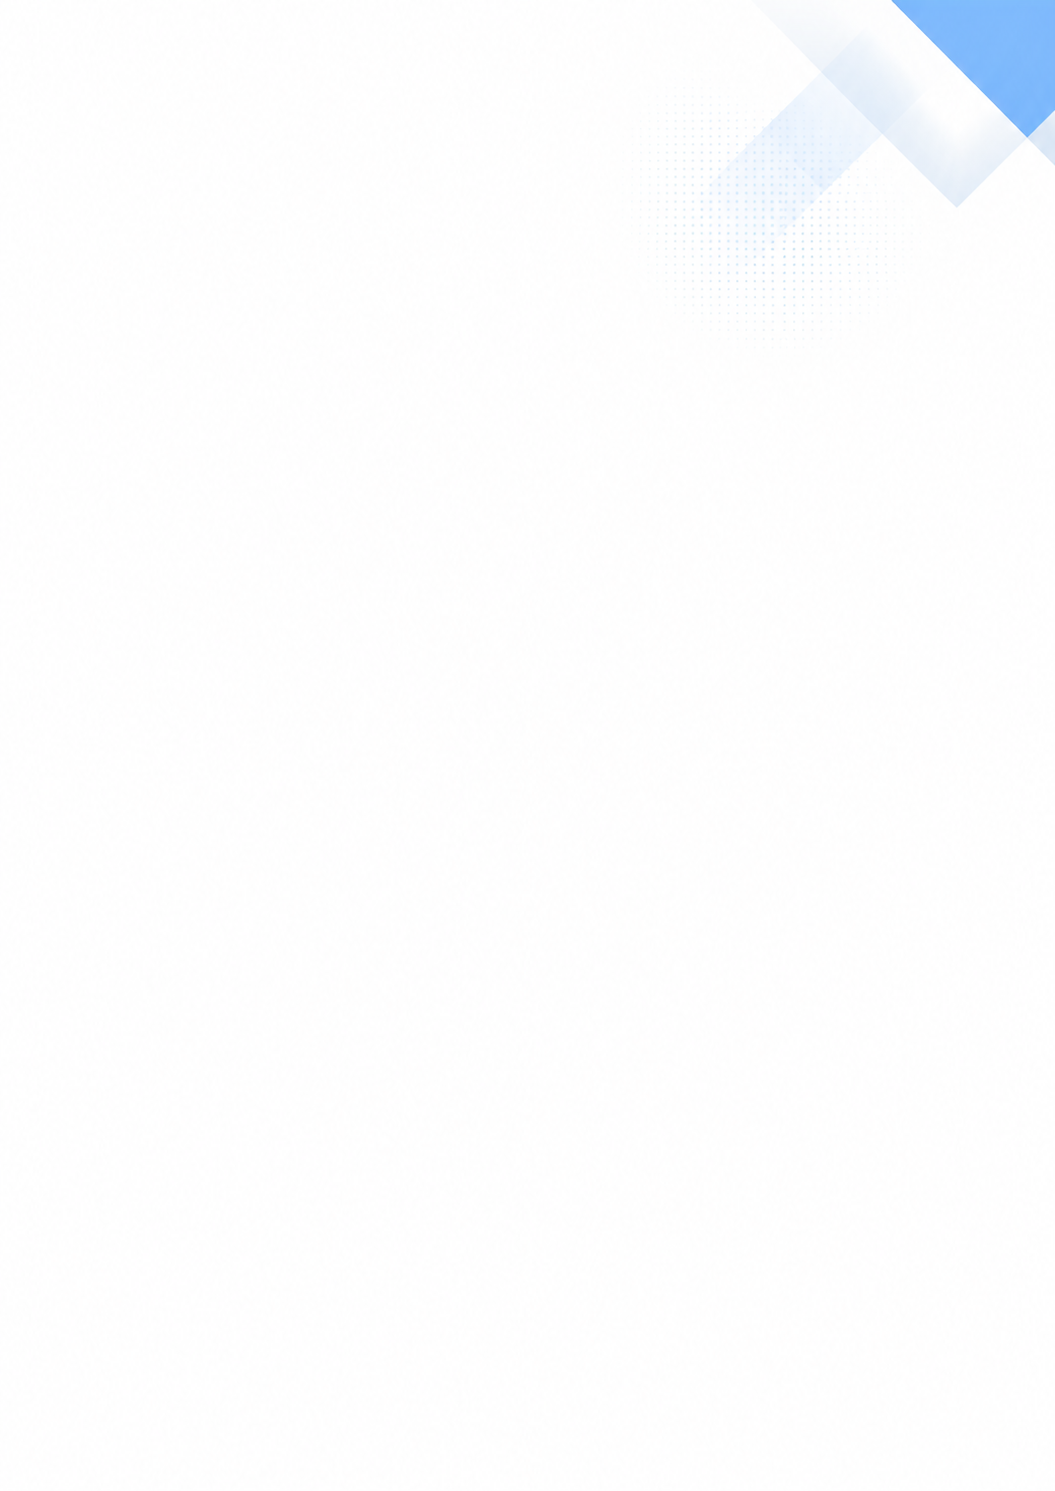
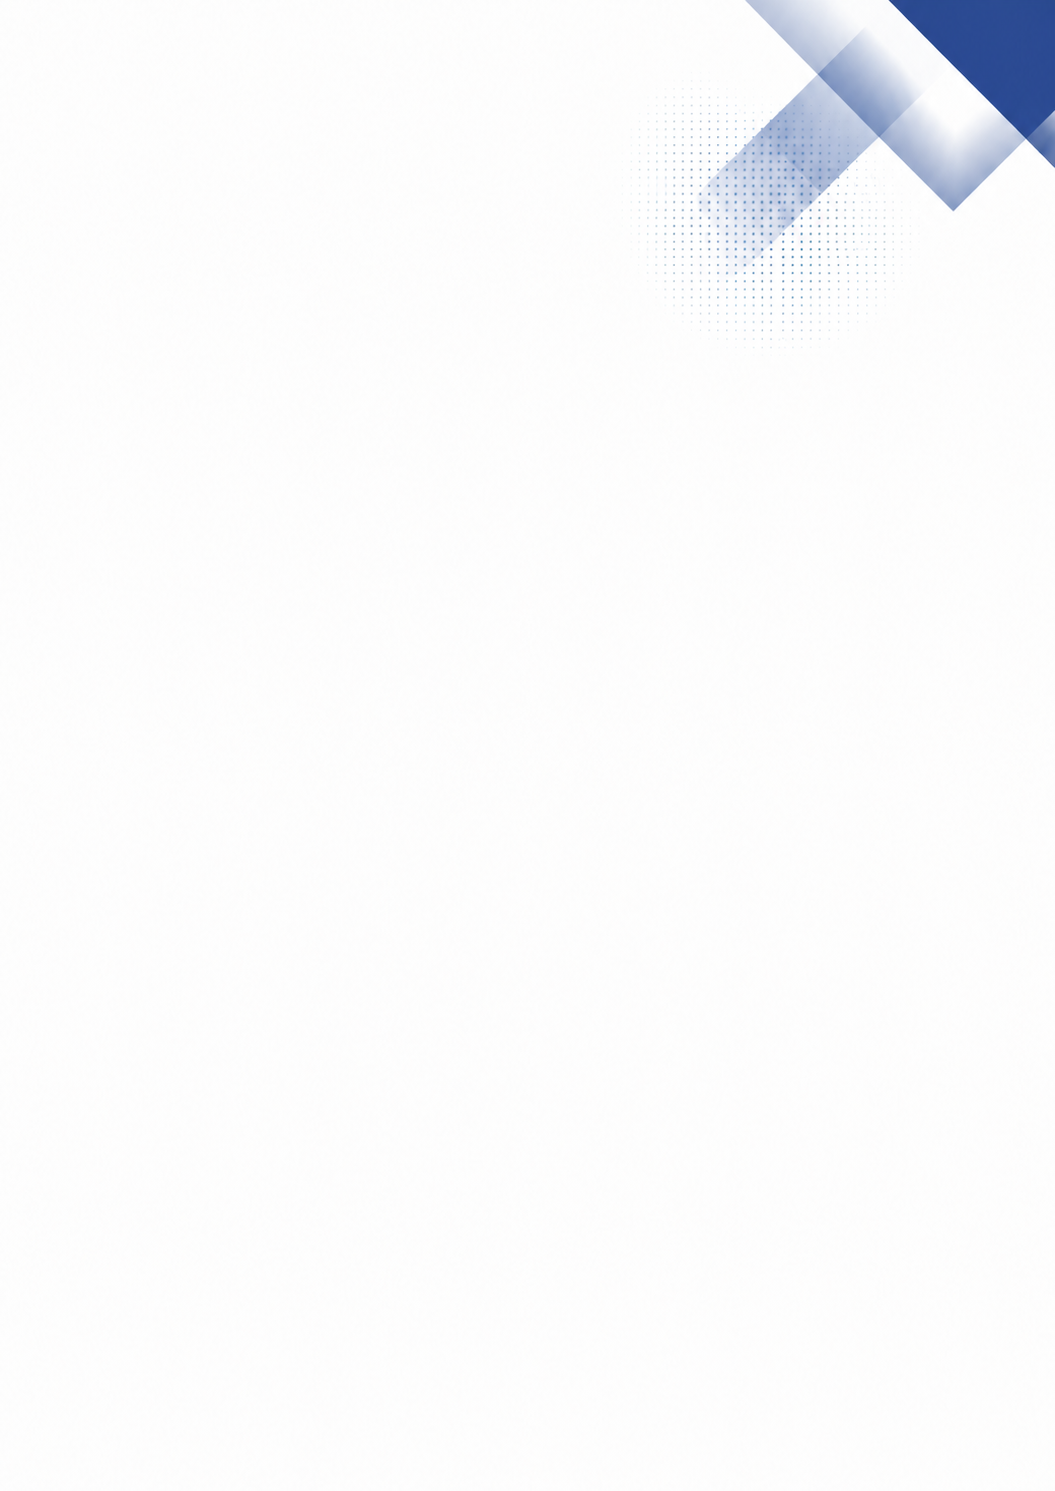
Redesign tag pills to show compact previews and implement two-line title/preview layout in dropdown

Changed region(s): [[0.637, 0.0, 1.0, 0.1851]]

diff --git a/src/app/Components/ReportNavbar.js b/src/app/Components/ReportNavbar.js
@@ -688,10 +688,10 @@ export default function ReportNavbar({ activeOrg = 'officemate' }) {
                     <div className="flex flex-wrap gap-1.5 mt-1.5">
                       <span className="text-[9.5px] text-slate-400 w-full mb-0.5">Dynamic tags (click to insert):</span>
                       {[
-                        { key: '{monthNameThai}_{yearThai}', label: `เดือนรายงาน (ไทย) เช่น ${previewVars.monthNameThai}_${previewVars.yearThai}` },
-                        { key: '{prevMonthNameThai}_{prevMonthYearThai}', label: `เดือนก่อนหน้า (ไทย) เช่น ${previewVars.prevMonthNameThai}_${previewVars.prevMonthYearThai}` },
-                        { key: '{monthName}_{year}', label: `เดือนรายงาน (อังกฤษ) เช่น ${previewVars.monthName}_${previewVars.year}` },
-                        { key: '{currentDateShort}', label: `วันที่ปัจจุบัน (สั้น) เช่น ${previewVars.currentDateShort?.replace(/\//g, '_')}` }
+                        { key: '{monthNameThai}_{yearThai}', label: `${previewVars.monthNameThai}_${previewVars.yearThai} (ไทย)` },
+                        { key: '{prevMonthNameThai}_{prevMonthYearThai}', label: `${previewVars.prevMonthNameThai}_${previewVars.prevMonthYearThai} (เดือนก่อน)` },
+                        { key: '{monthName}_{year}', label: `${previewVars.monthName}_${previewVars.year} (Eng)` },
+                        { key: '{currentDateShort}', label: `${previewVars.currentDateShort?.replace(/\//g, '_')} (วันที่)` }
                       ].map(tag => (
                         <button
                           key={tag.key}
@@ -751,11 +751,11 @@ export default function ReportNavbar({ activeOrg = 'officemate' }) {
                     <div className="flex flex-wrap gap-1.5 mt-1.5">
                       <span className="text-[9.5px] text-slate-400 w-full mb-0.5">Dynamic tags (click to insert):</span>
                       {[
-                        { key: '{monthNameThai} {yearThai}', label: `เดือนรายงาน (ไทย) - เช่น ${previewVars.monthNameThai} ${previewVars.yearThai}` },
-                        { key: '{prevMonthNameThai} {prevMonthYearThai}', label: `เดือนก่อนหน้า (ไทย) - เช่น ${previewVars.prevMonthNameThai} ${previewVars.prevMonthYearThai}` },
-                        { key: '{monthName} {year}', label: `เดือนรายงาน (อังกฤษ) - เช่น ${previewVars.monthName} ${previewVars.year}` },
-                        { key: '{currentDateThai}', label: `วันที่ปัจจุบัน (ไทยยาว) - เช่น ${previewVars.currentDateThai}` },
-                        { key: '{currentDateShort}', label: `วันที่ปัจจุบัน (สั้น) - เช่น ${previewVars.currentDateShort}` }
+                        { key: '{monthNameThai} {yearThai}', label: `${previewVars.monthNameThai} ${previewVars.yearThai} (ไทย)` },
+                        { key: '{prevMonthNameThai} {prevMonthYearThai}', label: `${previewVars.prevMonthNameThai} ${previewVars.prevMonthYearThai} (เดือนก่อน)` },
+                        { key: '{monthName} {year}', label: `${previewVars.monthName} ${previewVars.year} (Eng)` },
+                        { key: '{currentDateThai}', label: `${previewVars.currentDateThai} (ไทยยาว)` },
+                        { key: '{currentDateShort}', label: `${previewVars.currentDateShort} (สั้น)` }
                       ].map(tag => (
                         <button
                           key={tag.key}
@@ -838,22 +838,23 @@ export default function ReportNavbar({ activeOrg = 'officemate' }) {
                             <span className="text-[8px]">▼</span>
                           </button>
                           {insertTagDropdownOpen && (
-                            <div className="absolute left-0 mt-1 z-30 w-80 bg-white border border-slate-200 rounded-xl shadow-xl py-1 text-xs text-slate-700 max-h-56 overflow-y-auto">
+                            <div className="absolute left-0 mt-1 z-30 w-72 bg-white border border-slate-200 rounded-2xl shadow-xl py-1.5 text-xs text-slate-700 max-h-56 overflow-y-auto border-slate-100">
                               {[
-                                { tag: '{monthNameThai} {yearThai}', label: `เดือนรายงาน (ภาษาไทย) - เช่น ${previewVars.monthNameThai} ${previewVars.yearThai}` },
-                                { tag: '{prevMonthNameThai} {prevMonthYearThai}', label: `เดือนก่อนหน้า (ภาษาไทย) - เช่น ${previewVars.prevMonthNameThai} ${previewVars.prevMonthYearThai}` },
-                                { tag: '{monthName} {year}', label: `เดือนรายงาน (ภาษาอังกฤษ) - เช่น ${previewVars.monthName} ${previewVars.year}` },
-                                { tag: '{currentMonthName}', label: `เดือนปัจจุบัน (ภาษาอังกฤษ) - เช่น ${previewVars.currentMonthName}` },
-                                { tag: '{currentDateThai}', label: `วันที่ปัจจุบัน (ไทยยาว) - เช่น ${previewVars.currentDateThai}` },
-                                { tag: '{currentDateShort}', label: `วันที่ปัจจุบัน (สั้น) - เช่น ${previewVars.currentDateShort}` }
+                                { tag: '{monthNameThai} {yearThai}', title: 'เดือนรายงาน (ภาษาไทย)', preview: `${previewVars.monthNameThai} ${previewVars.yearThai}` },
+                                { tag: '{prevMonthNameThai} {prevMonthYearThai}', title: 'เดือนก่อนหน้า (ภาษาไทย)', preview: `${previewVars.prevMonthNameThai} ${previewVars.prevMonthYearThai}` },
+                                { tag: '{monthName} {year}', title: 'เดือนรายงาน (ภาษาอังกฤษ)', preview: `${previewVars.monthName} ${previewVars.year}` },
+                                { tag: '{currentMonthName}', title: 'เดือนปัจจุบัน (ภาษาอังกฤษ)', preview: previewVars.currentMonthName },
+                                { tag: '{currentDateThai}', title: 'วันที่ปัจจุบัน (ไทยยาว)', preview: previewVars.currentDateThai },
+                                { tag: '{currentDateShort}', title: 'วันที่ปัจจุบัน (สั้น)', preview: previewVars.currentDateShort }
                               ].map(item => (
                                 <button
                                   key={item.tag}
                                   type="button"
                                   onClick={() => insertTextAtCursor(item.tag)}
-                                  className="w-full text-left px-3.5 py-2 hover:bg-slate-50 cursor-pointer transition-colors font-medium text-slate-800"
+                                  className="w-full text-left px-3.5 py-1.5 hover:bg-slate-50 cursor-pointer transition-colors flex flex-col gap-0.5 border-b border-slate-100/30 last:border-b-0"
                                 >
-                                  {item.label}
+                                  <span className="font-bold text-slate-800 text-[10.5px]">{item.title}</span>
+                                  <span className="text-[9px] text-slate-400 font-normal">{item.preview}</span>
                                 </button>
                               ))}
                             </div>